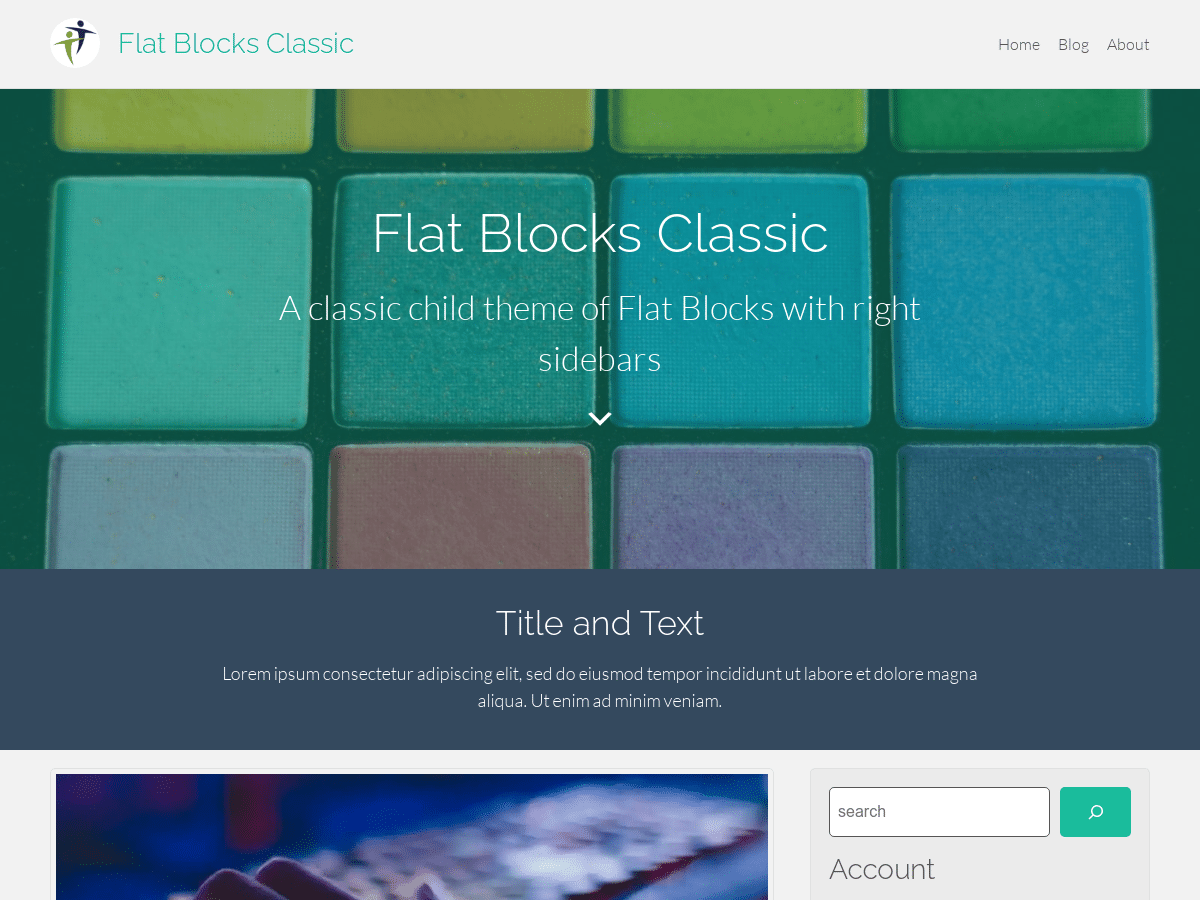
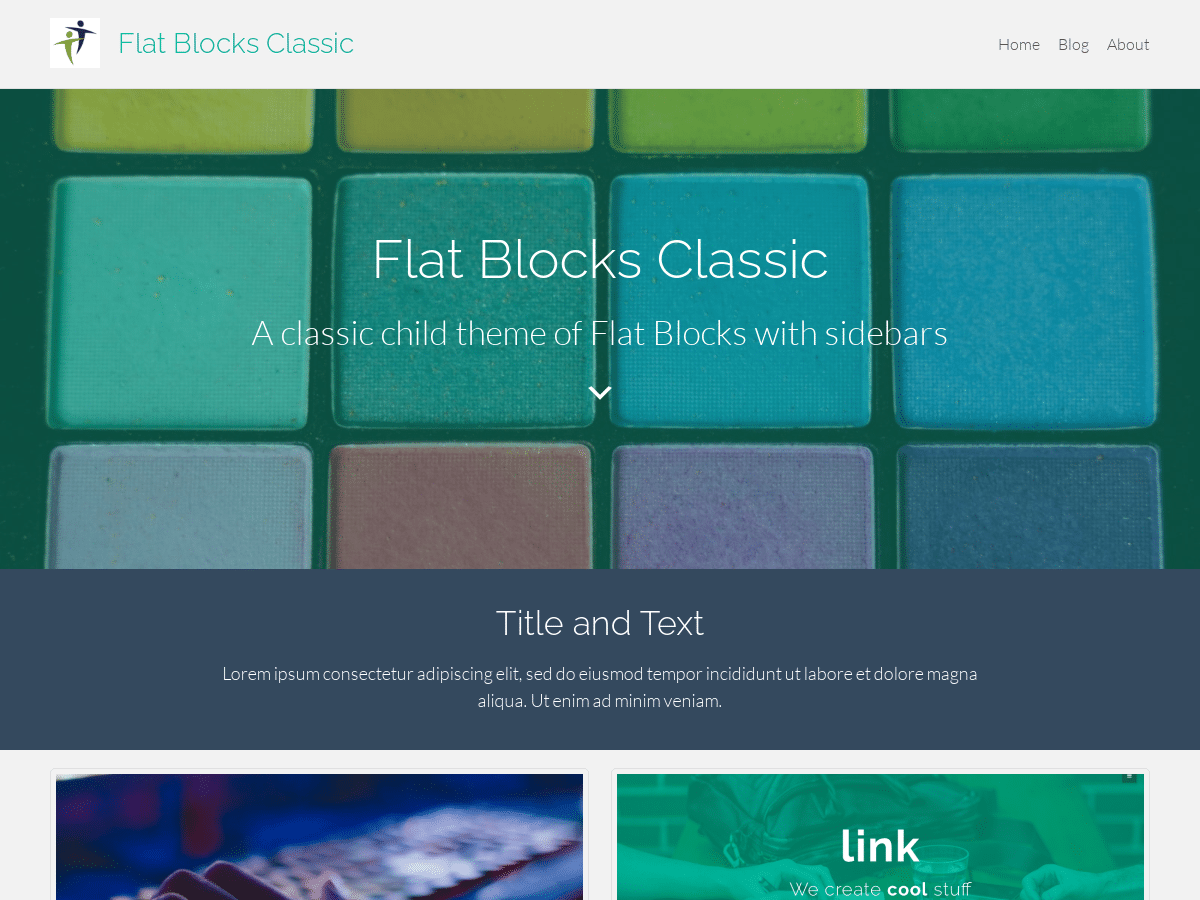
v1.0.3
* Update screenshot to pass WordPress.org Theme review guidelines.

Changed region(s): [[0.0308, 0.84, 0.9558, 1.0], [0.2158, 0.3111, 0.7708, 0.4667], [0.3083, 0.2178, 0.6783, 0.3111]]

diff --git a/style.css b/style.css
@@ -8,7 +8,7 @@ Template: flat-blocks
 Requires at least: 6.2
 Tested up to: 6.3
 Requires PHP: 7.4
-Version: 1.0.2
+Version: 1.0.3
 License: GNU General Public License v2 or later
 License URI: http://www.gnu.org/licenses/gpl-2.0.html
 Text Domain: flat-blocks
